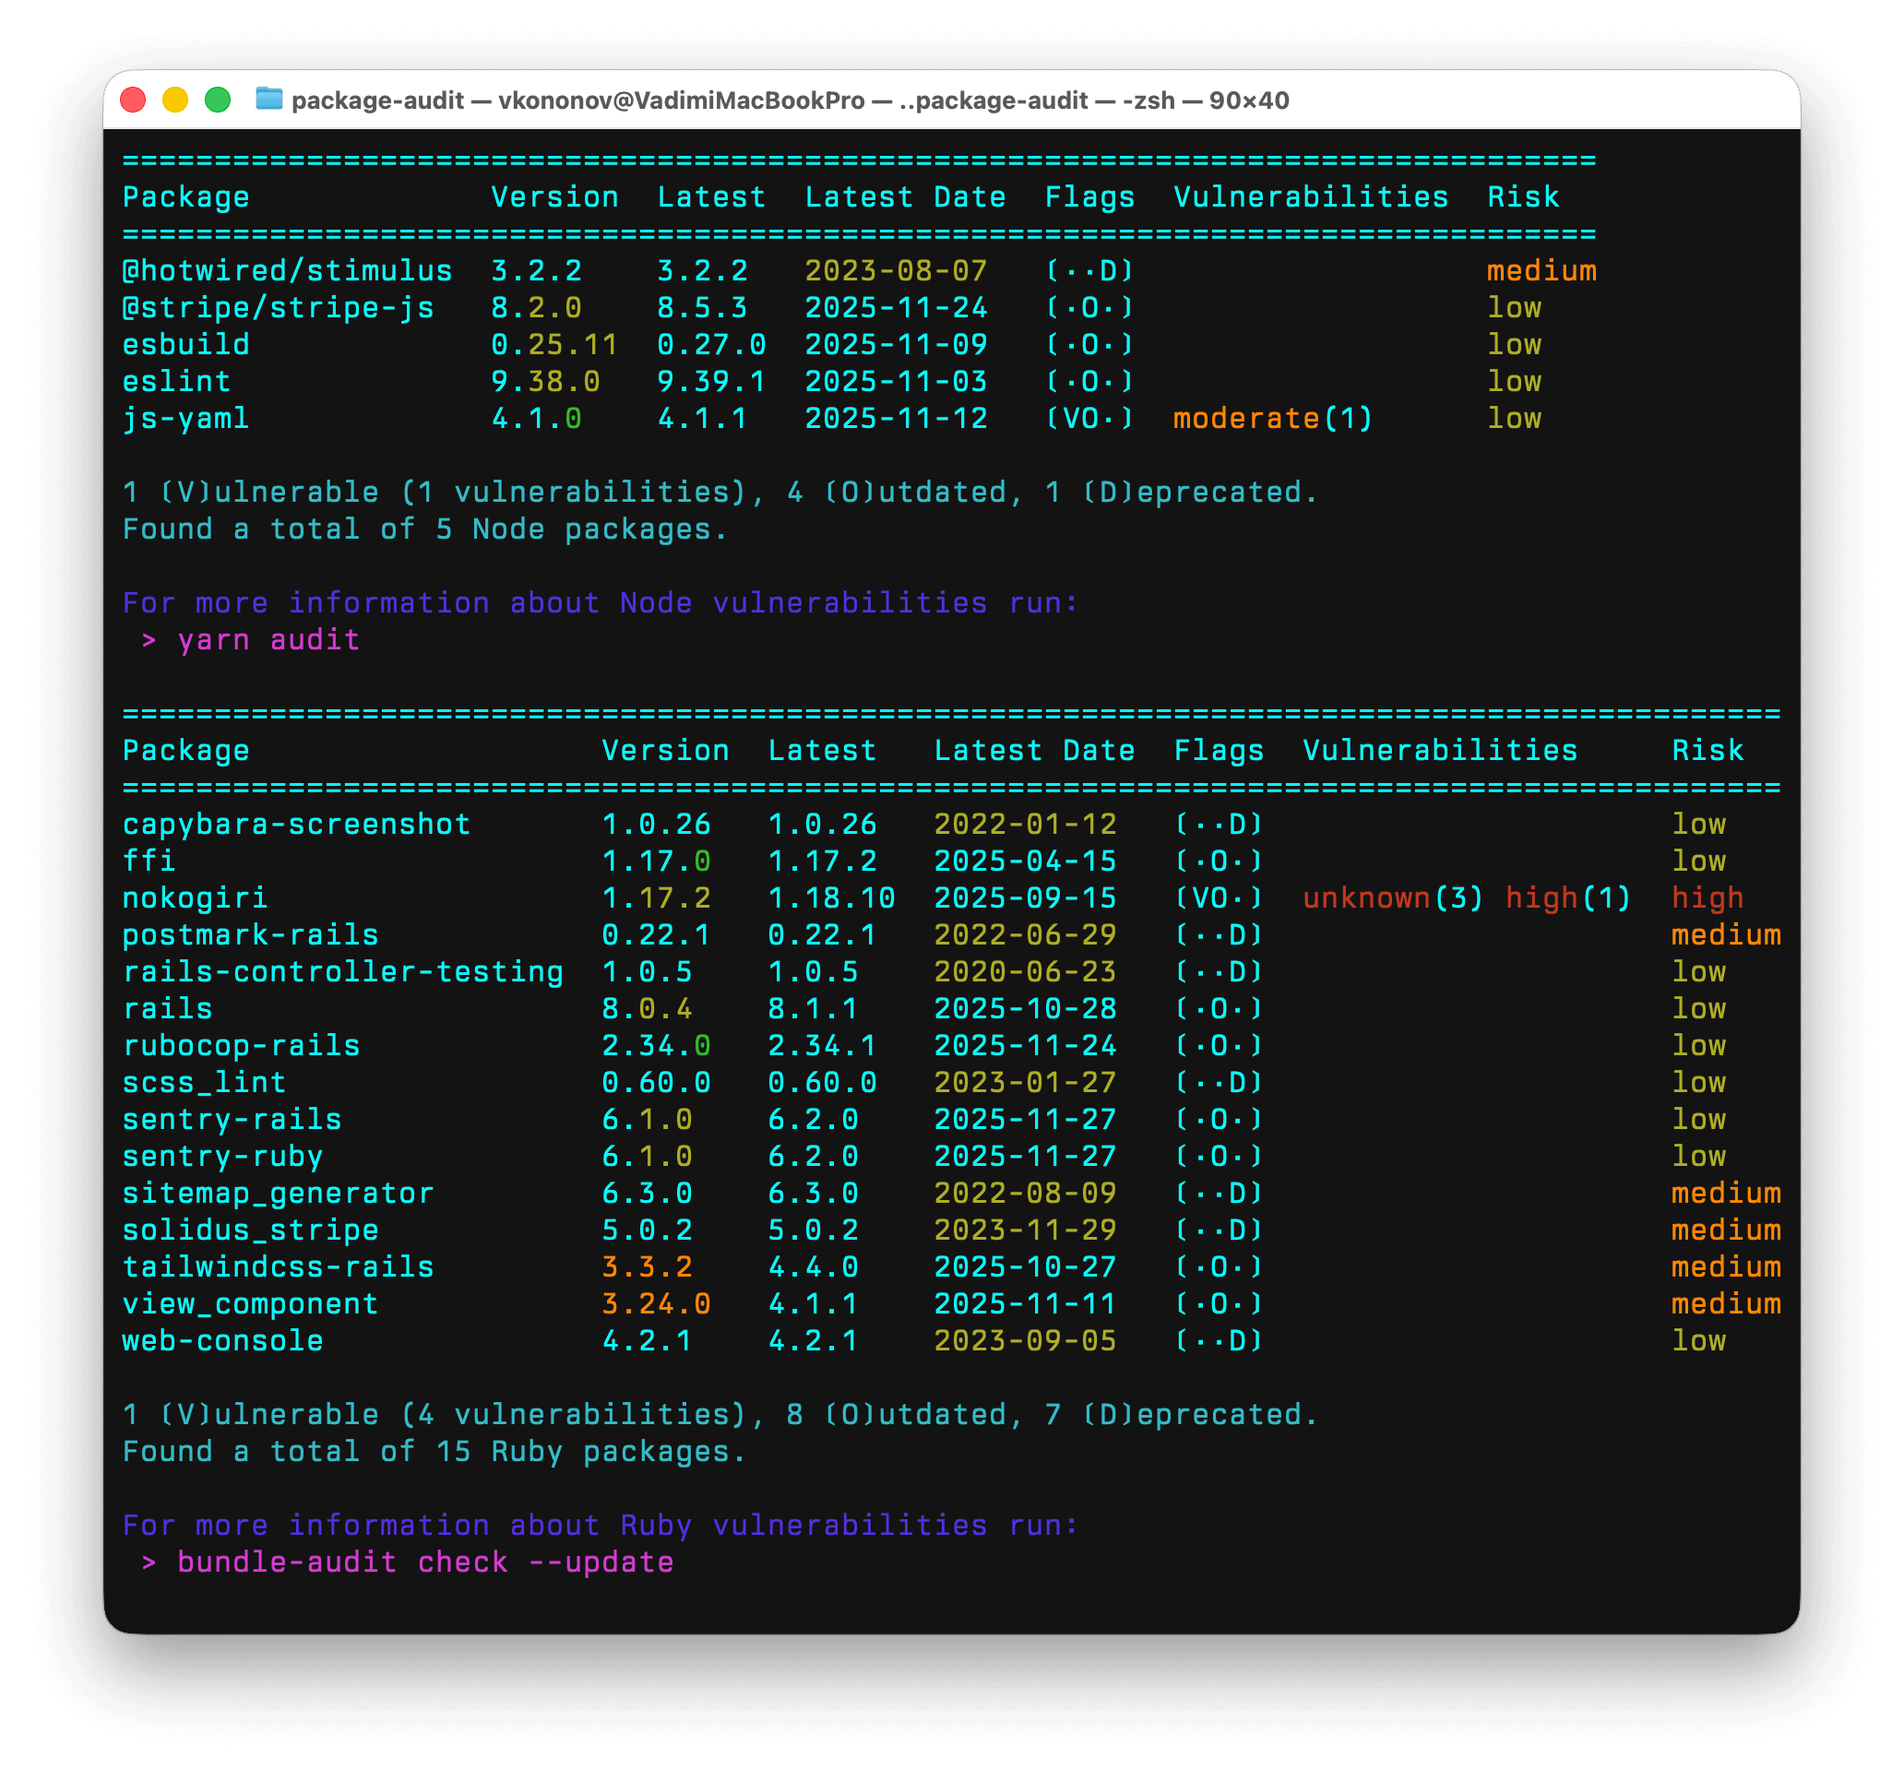
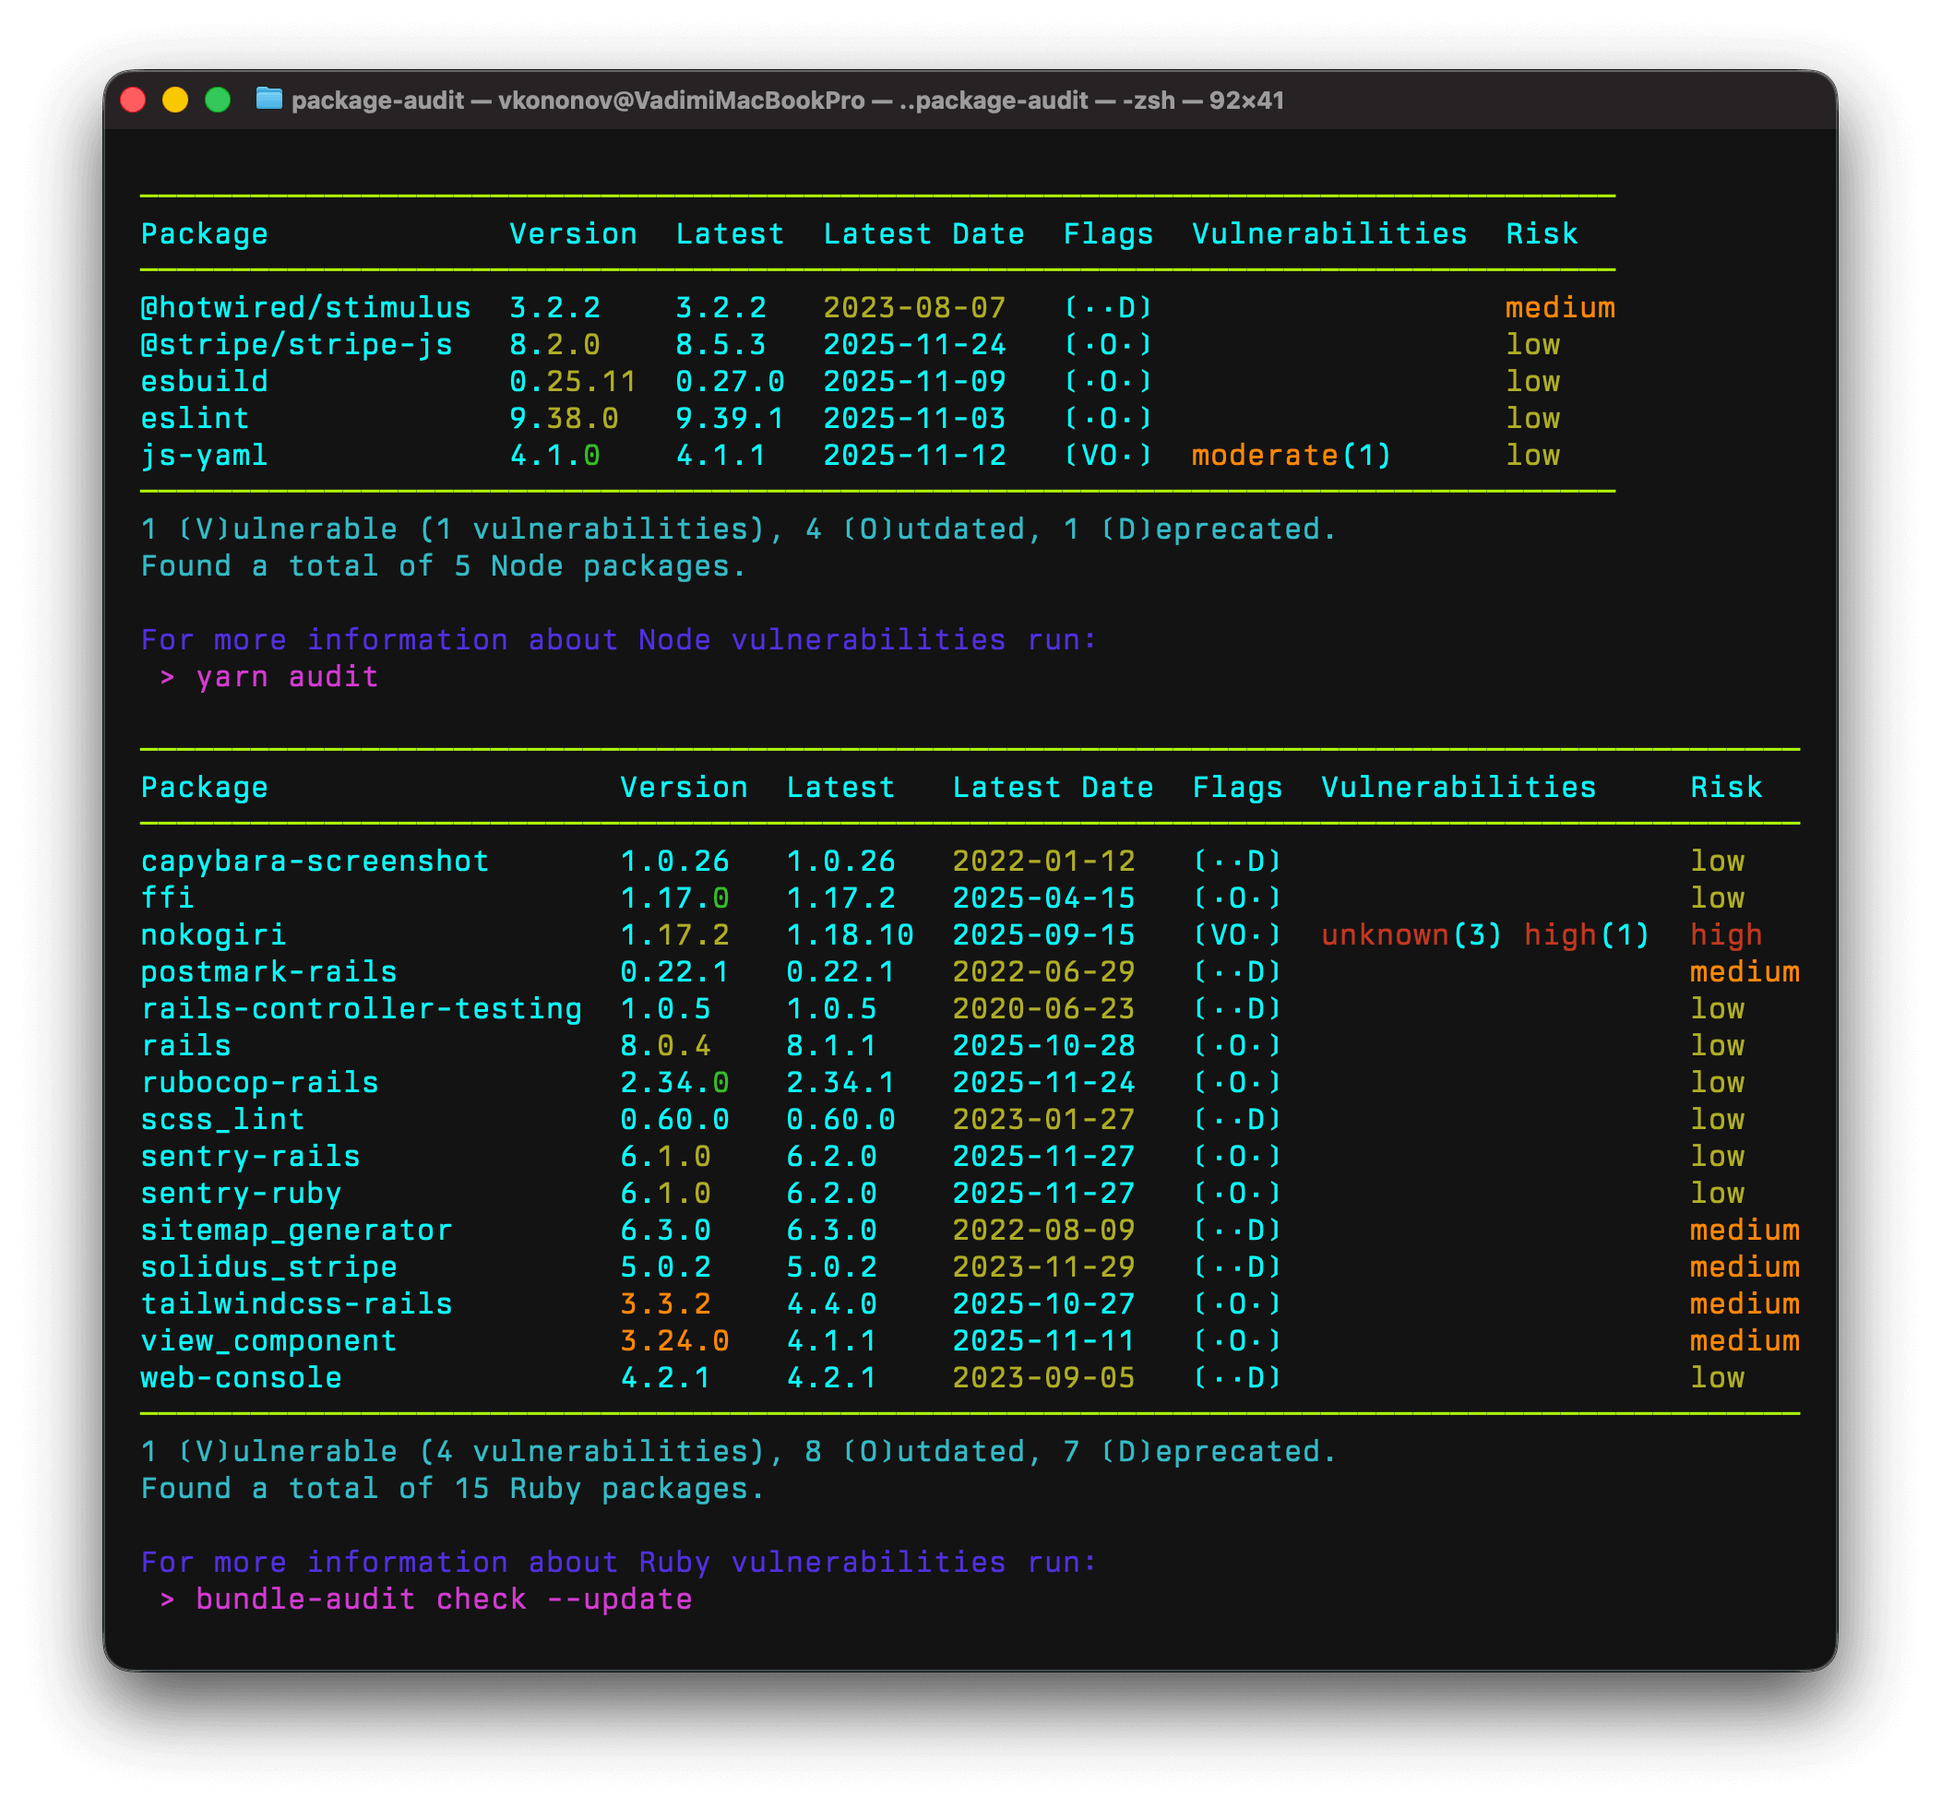
Improve the look and feel of the visual report.

Changed region(s): [[0.031, 0.0312, 0.9612, 0.9688]]

diff --git a/lib/package/audit/util/risk_legend.rb b/lib/package/audit/util/risk_legend.rb
@@ -6,42 +6,42 @@ module Package
     module Util
       module RiskLegend
         def self.print # rubocop:disable Metrics/AbcSize, Metrics/MethodLength
-          puts Util::BashColor.blue('1. Check if the package has a security vulnerability.')
-          puts '   If yes, the following vulnerability -> risk mapping is used:'
-          puts "      - #{Util::BashColor.red('unknown')} vulnerability\t-> #{Util::BashColor.red('high')} risk"
-          puts "      - #{Util::BashColor.red('critical')} vulnerability\t-> #{Util::BashColor.red('high')} risk"
-          puts "      - #{Util::BashColor.red('high')} vulnerability\t-> #{Util::BashColor.red('high')} risk"
-          puts "      - #{Util::BashColor.orange('medium')} vulnerability\t-> #{Util::BashColor.orange('medium')} risk"
-          puts "      - #{Util::BashColor.orange('moderate')} vulnerability\t-> #{Util::BashColor.orange('medium')} risk" # rubocop:disable Layout/LineLength
-          puts "      - #{Util::BashColor.yellow('low')} vulnerability\t-> #{Util::BashColor.yellow('low')} risk"
+          puts " #{Util::BashColor.blue('1. Check if the package has a security vulnerability.')}"
+          puts '    If yes, the following vulnerability -> risk mapping is used:'
+          puts "       - #{Util::BashColor.red('unknown')} vulnerability\t-> #{Util::BashColor.red('high')} risk"
+          puts "       - #{Util::BashColor.red('critical')} vulnerability\t-> #{Util::BashColor.red('high')} risk"
+          puts "       - #{Util::BashColor.red('high')} vulnerability\t-> #{Util::BashColor.red('high')} risk"
+          puts "       - #{Util::BashColor.orange('medium')} vulnerability\t-> #{Util::BashColor.orange('medium')} risk"
+          puts "       - #{Util::BashColor.orange('moderate')} vulnerability\t-> #{Util::BashColor.orange('medium')} risk" # rubocop:disable Layout/LineLength
+          puts "       - #{Util::BashColor.yellow('low')} vulnerability\t-> #{Util::BashColor.yellow('low')} risk"
 
           puts
 
-          puts Util::BashColor.blue('2. Check the package for potential deprecation.')
-          puts "   If no new releases by author for at least #{Const::Time::YEARS_ELAPSED_TO_BE_OUTDATED} years:"
-          puts "      - assign the risk to\t-> #{Util::BashColor.orange('medium')} risk"
+          puts " #{Util::BashColor.blue('2. Check the package for potential deprecation.')}"
+          puts "    If no new releases by author for at least #{Const::Time::YEARS_ELAPSED_TO_BE_OUTDATED} years:"
+          puts "       - assign the risk to\t-> #{Util::BashColor.orange('medium')} risk"
 
           puts
 
-          puts Util::BashColor.blue('3. Check if a newer version of the package is available.')
+          puts " #{Util::BashColor.blue('3. Check if a newer version of the package is available.')}"
 
-          puts '   If yes, assign risk as follows:'
-          puts "      - #{Util::BashColor.orange('major version')} mismatch\t-> #{Util::BashColor.orange('medium')} risk" # rubocop:disable Layout/LineLength
-          puts "      - #{Util::BashColor.yellow('minor version')} mismatch\t-> #{Util::BashColor.yellow('low')} risk"
-          puts "      - #{Util::BashColor.green('patch version')} mismatch\t-> #{Util::BashColor.yellow('low')} risk"
-          puts "      - #{Util::BashColor.green('build version')} mismatch\t-> #{Util::BashColor.yellow('low')} risk"
-
-          puts
-
-          puts Util::BashColor.blue('4. Take the highest risk from the first 3 steps.')
-          puts '   If two risks match in severity, use the following precedence:'
-          puts "      - #{Util::BashColor.red('vulnerability')} > #{Util::BashColor.orange('deprecation')} > #{Util::BashColor.yellow('outdatedness')}" # rubocop:disable Layout/LineLength
+          puts '    If yes, assign risk as follows:'
+          puts "       - #{Util::BashColor.orange('major version')} mismatch\t-> #{Util::BashColor.orange('medium')} risk" # rubocop:disable Layout/LineLength
+          puts "       - #{Util::BashColor.yellow('minor version')} mismatch\t-> #{Util::BashColor.yellow('low')} risk"
+          puts "       - #{Util::BashColor.green('patch version')} mismatch\t-> #{Util::BashColor.yellow('low')} risk"
+          puts "       - #{Util::BashColor.green('build version')} mismatch\t-> #{Util::BashColor.yellow('low')} risk"
 
           puts
 
-          puts Util::BashColor.blue('5. Check whether the package is used in production or not.')
-          puts '   If a package is limited to a non-production group:'
-          puts "      - cap risk severity to\t -> #{Util::BashColor.yellow('low')} risk"
+          puts " #{Util::BashColor.blue('4. Take the highest risk from the first 3 steps.')}"
+          puts '    If two risks match in severity, use the following precedence:'
+          puts "       - #{Util::BashColor.red('vulnerability')} > #{Util::BashColor.orange('deprecation')} > #{Util::BashColor.yellow('outdatedness')}" # rubocop:disable Layout/LineLength
+
+          puts
+
+          puts " #{Util::BashColor.blue('5. Check whether the package is used in production or not.')}"
+          puts '    If a package is limited to a non-production group:'
+          puts "       - cap risk severity to\t -> #{Util::BashColor.yellow('low')} risk"
         end
       end
     end

diff --git a/lib/package/audit/util/summary_printer.rb b/lib/package/audit/util/summary_printer.rb
@@ -6,31 +6,34 @@ module Package
     module Util
       module SummaryPrinter
         def self.all
-          printf("\n%<info>s\n%<cmd>s\n\n",
+          printf(" %<info>s\n %<cmd>s\n",
                  info: Util::BashColor.blue('To show how risk is calculated run:'),
                  cmd: Util::BashColor.magenta(' > package-audit risk'))
         end
 
         def self.deprecated
-          puts Util::BashColor.blue('Although the packages above have no recent updates, they may not be deprecated.')
-          puts Util::BashColor.blue("Please contact the package author for more information about its status.\n")
+          puts " #{Util::BashColor.blue('Although the packages above have no recent updates, ' \
+                                        'they may not be deprecated.')}"
+          puts " #{Util::BashColor.blue('Please contact the package author for more information about its status.')}"
+          puts
         end
 
         def self.vulnerable(technology, cmd)
-          printf("%<info>s\n%<cmd>s\n\n",
+          printf(" %<info>s\n %<cmd>s\n",
                  info: Util::BashColor.blue("For more information about #{technology.capitalize} vulnerabilities run:"),
                  cmd: Util::BashColor.magenta(" > #{cmd}"))
         end
 
         def self.total(technology, report, pkgs, ignored_pkgs)
           if ignored_pkgs.any?
-            puts Util::BashColor.cyan("Found a total of #{pkgs.length} #{technology.capitalize} packages " \
-                                      "(#{ignored_pkgs.length} ignored).\n")
+            puts " #{Util::BashColor.cyan("Found a total of #{pkgs.length} #{technology.capitalize} packages " \
+                                          "(#{ignored_pkgs.length} ignored).")}"
           elsif pkgs.any?
-            puts Util::BashColor.cyan("Found a total of #{pkgs.length} #{technology.capitalize} packages.\n")
+            puts " #{Util::BashColor.cyan("Found a total of #{pkgs.length} #{technology.capitalize} packages.")}"
           else
-            puts Util::BashColor.green("There are no #{report} #{technology.capitalize} packages!\n")
+            puts " #{Util::BashColor.green("There are no #{report} #{technology.capitalize} packages!")}"
           end
+          puts
         end
 
         def self.statistics(format, technology, report, pkgs, ignored_pkgs)
@@ -58,19 +61,21 @@ module Package
 
         private_class_method def self.display_results(format, technology, report, pkgs, ignored_pkgs, stats) # rubocop:disable Metrics/AbcSize, Metrics/MethodLength, Metrics/ParameterLists
           if pkgs.any?
-            print status_message(stats)
+            print " #{status_message(stats)}"
             print Util::BashColor.cyan(' \\') if format == Enum::Format::MARKDOWN
             puts
             total(technology, report, pkgs, ignored_pkgs)
           elsif ignored_pkgs.any?
-            print status_message(stats)
+            print " #{status_message(stats)}"
             print Util::BashColor.cyan(' \\') if format == Enum::Format::MARKDOWN
             puts
-            puts Util::BashColor.green("There are no deprecated, outdated or vulnerable #{technology.capitalize} " \
-                                       "packages (#{ignored_pkgs.length} ignored)!\n")
+            puts " #{Util::BashColor.green('There are no deprecated, outdated or vulnerable ' \
+                                           "#{technology.capitalize} packages (#{ignored_pkgs.length} ignored)!")}"
+            puts
           else
-            puts Util::BashColor.green("There are no deprecated, outdated or vulnerable #{technology.capitalize} " \
-                                       "packages!\n")
+            puts " #{Util::BashColor.green('There are no deprecated, outdated or vulnerable ' \
+                                           "#{technology.capitalize} packages!")}"
+            puts
           end
         end
 

diff --git a/test/package/audit/test_printer.rb b/test/package/audit/test_printer.rb
@@ -46,13 +46,15 @@ module Package
         PackagePrinter.new({}, @gems).print(%i[name version latest_version latest_version_date])
         lines = @output.string.split("\n")
 
-        assert_equal 6, lines.length
-        assert_equal '========================================', lines[0]
-        assert_equal 'Package    Version  Latest   Latest Date', lines[1]
-        assert_equal '========================================', lines[2]
-        assert_equal "fileutils  1.#{Util::BashColor.yellow('5.0')}    1.7.1    #{@today} ", lines[3]
-        assert_equal "puma       5.1.1    5.1.1    #{Util::BashColor.yellow('2020-12-10')} ", lines[4]
-        assert_equal "rails      #{Util::BashColor.orange('6.0.0')}    7.0.4.3  #{@today} ", lines[5]
+        assert_equal 8, lines.length
+        assert_equal ' ', lines[0]
+        assert_includes lines[1], '─'
+        assert_equal ' Package    Version  Latest   Latest Date', lines[2]
+        assert_includes lines[3], '─'
+        assert_equal " fileutils  1.#{Util::BashColor.yellow('5.0')}    1.7.1    #{@today} ", lines[4]
+        assert_equal " puma       5.1.1    5.1.1    #{Util::BashColor.yellow('2020-12-10')} ", lines[5]
+        assert_equal " rails      #{Util::BashColor.orange('6.0.0')}    7.0.4.3  #{@today} ", lines[6]
+        assert_includes lines[7], '─'
       end
 
       def test_that_the_dependencies_are_displayed_correctly_in_markdown # rubocop:disable Metrics/AbcSize
@@ -86,7 +88,7 @@ module Package
         PackagePrinter.new({}, [@rails]).print(%i[vulnerabilities])
         lines = @output.string.split("\n")
 
-        assert_equal Formatter::Vulnerability.new(@rails.vulnerabilities).format, lines[3]
+        assert_equal " #{Formatter::Vulnerability.new(@rails.vulnerabilities).format}", lines[4]
       end
 
       def test_that_vulnerabilities_are_displayed_correctly_in_csv

diff --git a/lib/package/audit/services/package_printer.rb b/lib/package/audit/services/package_printer.rb
@@ -24,12 +24,13 @@ module Package
         case @options[Enum::Option::FORMAT]
         when Enum::Format::CSV
           csv(fields, exclude_headers: @options[Enum::Option::CSV_EXCLUDE_HEADERS])
+          puts
         when Enum::Format::MARKDOWN
           markdown(fields)
+          puts
         else
           pretty(fields)
         end
-        puts
       end
 
       private
@@ -47,19 +48,24 @@ module Package
         header = fields.map.with_index do |field, index|
           Const::Fields::HEADERS[field].gsub(BASH_FORMATTING_REGEX, '').ljust(max_widths[index])
         end.join(' ' * COLUMN_GAP)
-        separator = max_widths.map { |width| '=' * width }.join('=' * COLUMN_GAP)
+        separator_plain = max_widths.map { |width| '─' * width }.join('─' * COLUMN_GAP)
+        separator = Util::BashColor.light_green(separator_plain)
 
-        puts separator
-        puts header
-        puts separator
+        puts ' '
+        puts " #{separator}"
+        puts " #{header}"
+        puts " #{separator}"
 
         @pkgs.each do |pkg|
-          puts fields.map.with_index { |key, index|
+          row = fields.map.with_index do |key, index|
             val = get_field_value(pkg, key)
             formatting_length = val.length - val.gsub(BASH_FORMATTING_REGEX, '').length
             val.ljust(max_widths[index] + formatting_length)
-          }.join(' ' * COLUMN_GAP)
+          end.join(' ' * COLUMN_GAP)
+          puts " #{row}"
         end
+
+        puts " #{separator}"
       end
 
       def csv(fields = Const::Fields::DEFAULT, exclude_headers: false)

diff --git a/lib/package/audit/services/command_parser.rb b/lib/package/audit/services/command_parser.rb
@@ -75,6 +75,8 @@ module Package
         @spinner.stop # Stop spinner before cleaning config to ensure clean output
         clean_config(all_packages_for_config)
 
+        puts unless @options[Enum::Option::FORMAT] # Add final blank line for default format
+
         cumulative_pkgs.any? ? 1 : 0
       ensure
         @spinner.stop

diff --git a/lib/package/audit/util/bash_color.rb b/lib/package/audit/util/bash_color.rb
@@ -29,6 +29,10 @@ module Package
         def self.blue(str)
           "\e[34m#{str}\e[0m"
         end
+
+        def self.light_green(str)
+          "\e[38;5;154m#{str}\e[0m"
+        end
       end
     end
   end
